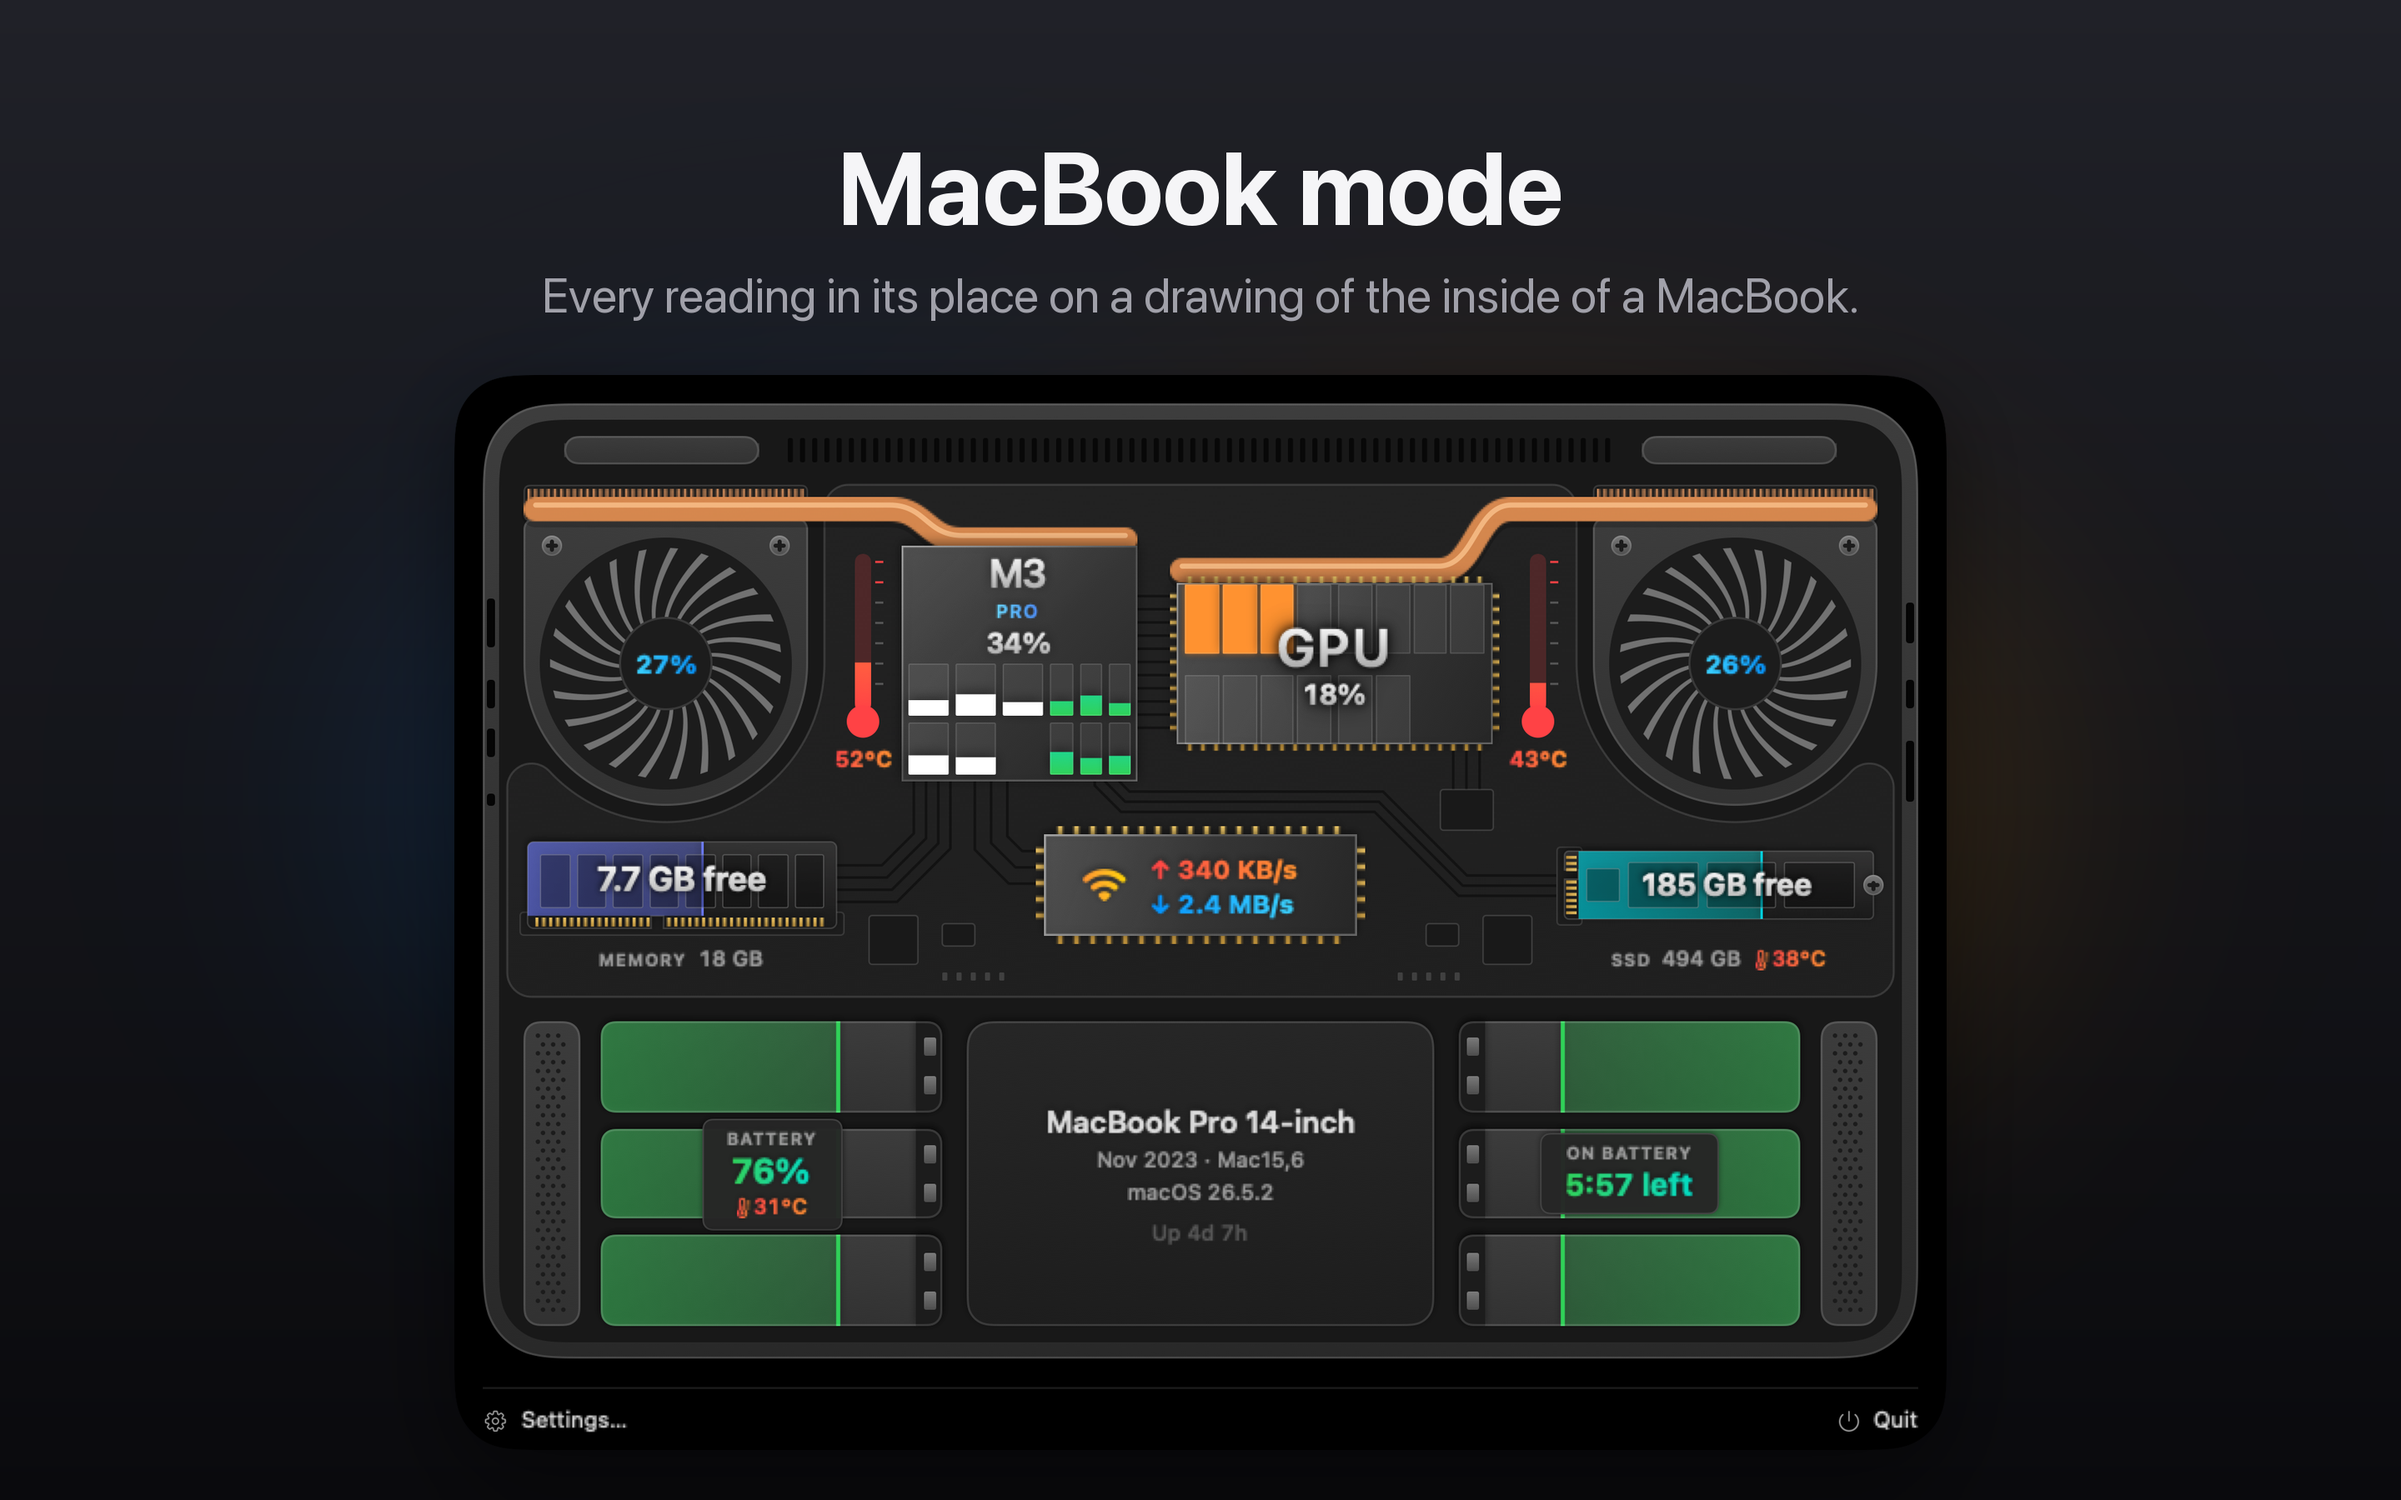
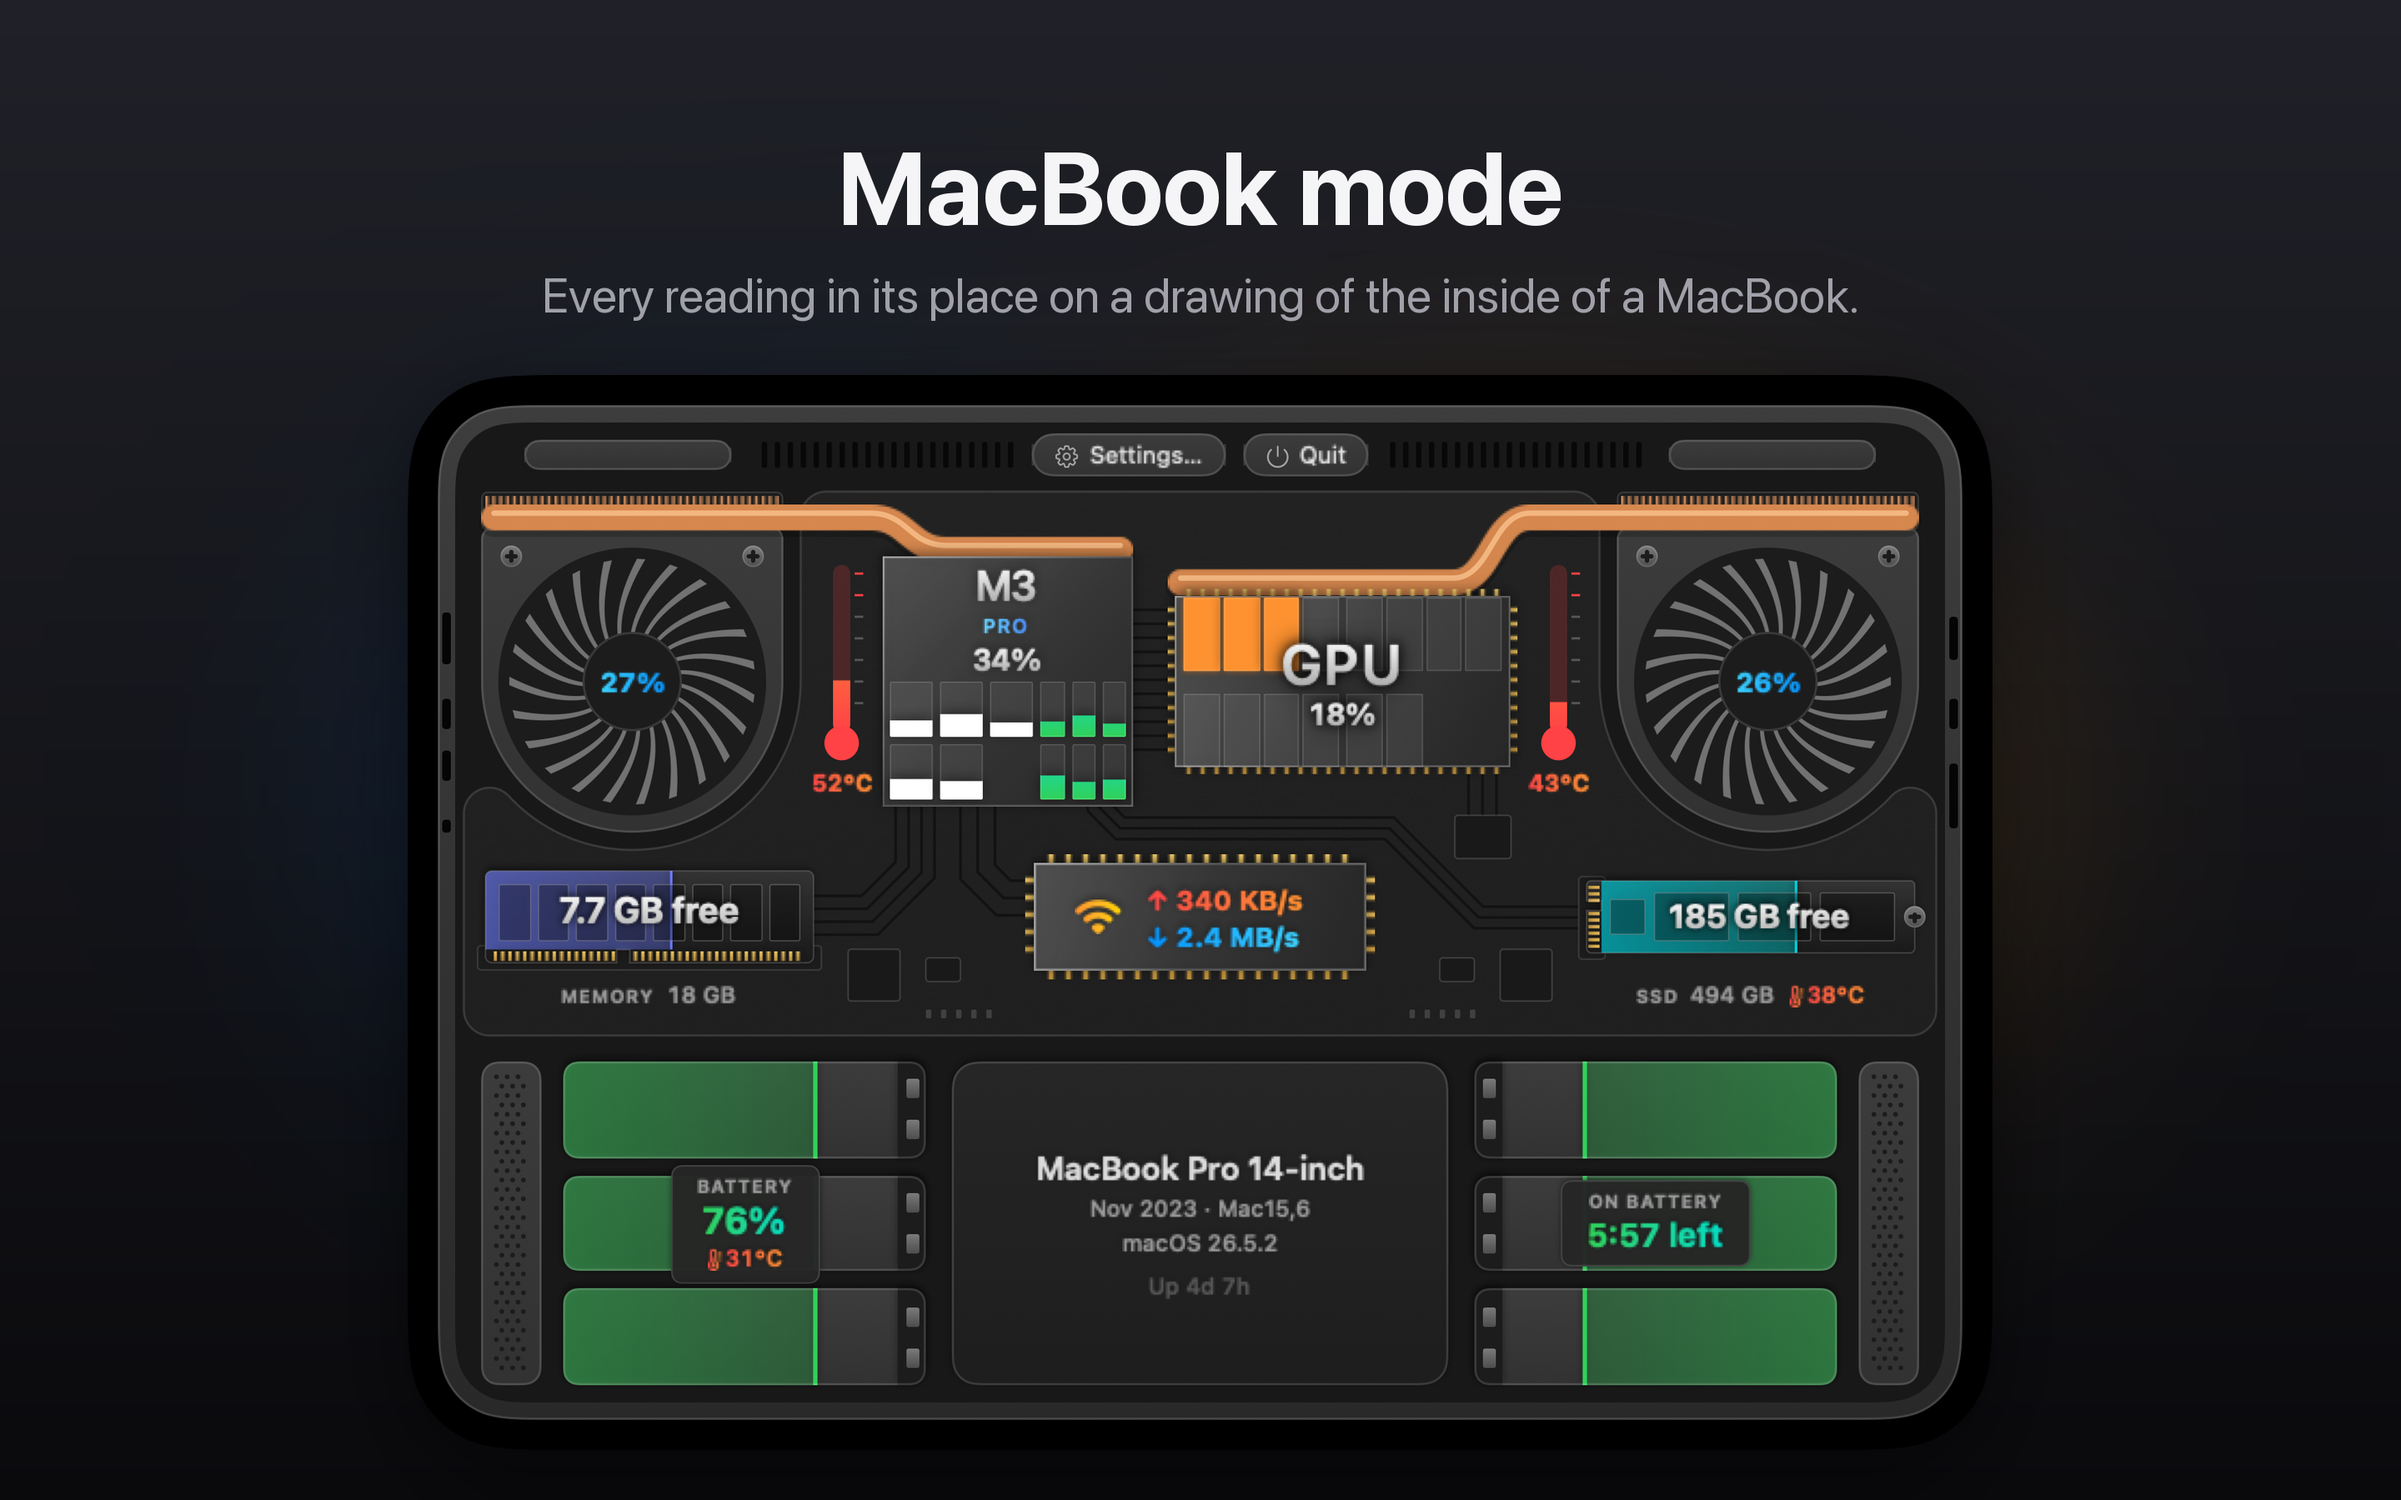
Bento Stats 1.2
Version 1.2, build 7. The README's pictures are retaken: MacBook mode with
Settings and Quit in its hinge, arranging the grid in the dark, and a new one
of Settings. The README says the Mac App Store version is out, links it, and
says how the menu bar is set up now.

The layout pictures in Settings are retaken too, and the App Store's copy has
its own, with the thermal state where the others show temperatures it cannot
read.

Changed region(s): [[0.1562, 0.2489, 0.8438, 0.9644], [0.4375, 0.7156, 0.5625, 0.8711]]

diff --git a/Sources/AirStatUI/Settings/GeneralPane.swift b/Sources/AirStatUI/Settings/GeneralPane.swift
@@ -123,6 +123,7 @@ struct GeneralPane: View {
 ///
 /// The pictures are the panel itself, rendered offscreen on fixture data and kept as
 /// files: four live panels in a settings window would cost what four open panels do.
+/// The App Store's copy has its own, where a layout shows temperatures it cannot read.
 private struct LayoutPicker: View {
     @Binding var selection: PanelStyle
 
@@ -176,7 +177,9 @@ private struct LayoutPicker: View {
     private static let thumbnails: [PanelStyle: NSImage] = {
         var images: [PanelStyle: NSImage] = [:]
         for style in PanelStyle.allCases {
-            if let url = Logo.resourceURL("Layout-\(style.rawValue)", withExtension: "png"),
+            let name = "Layout-\(style.rawValue)"
+            let store = Capabilities.readsSensors ? nil : Logo.resourceURL(name + "-store", withExtension: "png")
+            if let url = store ?? Logo.resourceURL(name, withExtension: "png"),
                let image = NSImage(contentsOf: url) {
                 images[style] = image
             }

diff --git a/README.md b/README.md
@@ -12,7 +12,7 @@ the battery is doing, and how hot the Mac is running.
 
 It is built to stay light, because a monitor runs all day. It has no Dock icon, reads the
 system through Mach, IOKit, sysctl and CoreWLAN, and keeps everything on your Mac: no
-accounts, no analytics, no tracking.
+accounts, no analytics, no tracking. It speaks English and 14 more languages.
 
 <img src="docs/screenshots/bento.png" alt="The Bento panel: CPU, memory, SSD, battery, GPU, network, uptime and CPU temperature cards" width="100%">
 
@@ -34,10 +34,12 @@ Point at any card for history charts and the details the card leaves out.
 
 - Press and hold a card to rearrange the grid: drag cards around, resize them, and pick from several designs for each
 - **Bento** for the full picture, **Bento Small** for a compact one, or **MacBook mode**
-- Choose what the menu bar itself shows
+- Set up the menu bar on a preview of it in Settings: click a readout to change its style, drag it to move it
 - Get a notification when a reading crosses a limit you set
 
 <img src="docs/screenshots/bento-small.png" alt="Bento Small" width="49%"> <img src="docs/screenshots/arrange.png" alt="Arranging the grid" width="49%">
+
+<img src="docs/screenshots/settings.png" alt="Settings: the layouts as pictures, and the menu bar's readouts on a preview of it" width="100%">
 
 ## Install
 
@@ -59,9 +61,9 @@ General. Version 1.0 predates this, so from 1.0, download the latest release onc
 
 ### This download or the Mac App Store?
 
-Bento Stats is also coming to the Mac App Store, but macOS does not let App Store apps read
-temperature sensors or fan speeds, so that version shows the Mac's thermal state (normal,
-elevated, high or critical) in their place.
+Bento Stats is also on the [Mac App Store](https://apps.apple.com/app/id6825569812), but
+macOS does not let App Store apps read temperature sensors or fan speeds, so that version
+shows the Mac's thermal state (normal, elevated, high or critical) in their place.
 
 | | This download | Mac App Store |
 |---|:---:|:---:|
